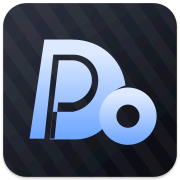
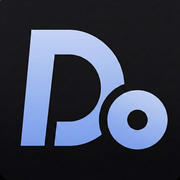
chore(website): unify branding with provided DoWhiz.jpeg

diff --git a/website/src/App.jsx b/website/src/App.jsx
@@ -17,7 +17,7 @@ import plushAxolotlImg from './assets/Plush-Axolotl.jpg';
 
 const WAITLIST_FORM_URL = 'https://docs.google.com/forms/d/1UgZpFgYxq0uSjmVdai1mpjbfj2GxcWakFt3YKL8by34/viewform';
 const SITE_URL = 'https://dowhiz.com';
-const LOGO_URL = `${SITE_URL}/do-whiz-mark.svg`;
+const LOGO_URL = `${SITE_URL}/DoWhiz.jpeg`;
 const SUPPORT_EMAIL = 'admin@dowhiz.com';
 const ORG_NAME = 'DoWhiz';
 const DAY_START_HOUR = 7;
@@ -967,7 +967,7 @@ function App() {
         <nav className="navbar">
           <div className="container nav-content">
             <a href="/" className="logo">
-              <img src="/do-whiz-mark.svg" alt="" className="brand-mark" aria-hidden="true" />
+              <img src="/DoWhiz.jpeg" alt="" className="brand-mark" aria-hidden="true" />
               <span>Do<span className="text-gradient">Whiz</span></span>
             </a>
             <div className="nav-links">
@@ -1421,7 +1421,7 @@ function App() {
           <div className="container footer-content">
             <div className="footer-brand">
               <a href="#" className="footer-logo">
-                <img src="/do-whiz-mark.svg" alt="" className="footer-brand-mark" aria-hidden="true" />
+                <img src="/DoWhiz.jpeg" alt="" className="footer-brand-mark" aria-hidden="true" />
                 <span>Do<span className="text-gradient">Whiz</span></span>
               </a>
               <p className="footer-tagline">

diff --git a/website/index.html b/website/index.html
@@ -2,7 +2,7 @@
 <html lang="en">
   <head>
     <meta charset="UTF-8" />
-    <link rel="icon" type="image/svg+xml" href="/do-whiz-mark.svg" />
+    <link rel="icon" type="image/jpeg" href="/DoWhiz.jpeg" />
     <link rel="apple-touch-icon" href="/apple-touch-icon.png" />
     <link rel="manifest" href="/site.webmanifest" />
     <meta
@@ -23,7 +23,7 @@
     <meta property="og:url" content="https://dowhiz.com/" />
     <meta property="og:site_name" content="DoWhiz" />
     <meta property="og:locale" content="en_US" />
-    <meta property="og:image" content="/do-whiz-og.svg" />
+    <meta property="og:image" content="/DoWhiz.jpeg" />
     <meta property="og:image:alt" content="DoWhiz digital employee team" />
     <meta name="twitter:card" content="summary_large_image" />
     <meta name="twitter:title" content="DoWhiz" />
@@ -31,7 +31,7 @@
       name="twitter:description"
       content="Multi-channel, tool-native digital employee team for daily operations. Trigger work from email, chat, GitHub, and shared docs with shared memory across platforms."
     />
-    <meta name="twitter:image" content="/do-whiz-og.svg" />
+    <meta name="twitter:image" content="/DoWhiz.jpeg" />
     <title>DoWhiz | Multi-Channel Tool-Native Digital Employees</title>
   </head>
   <body>

diff --git a/website/public/agent-market/index.html b/website/public/agent-market/index.html
@@ -7,7 +7,7 @@
       name="description"
       content="Request automated OpenClaw deployment on DoWhiz by uploading skills, env keys, and private data folders."
     />
-    <link rel="icon" type="image/svg+xml" href="/do-whiz-mark.svg" />
+    <link rel="icon" type="image/jpeg" href="/DoWhiz.jpeg" />
     <link rel="apple-touch-icon" href="/apple-touch-icon.png" />
     <link rel="manifest" href="/site.webmanifest" />
     <link rel="canonical" href="https://dowhiz.com/agent-market/" />
@@ -38,7 +38,7 @@
     <nav class="navbar">
       <div class="container nav-content">
         <a class="logo" href="/">
-          <img src="/do-whiz-mark.svg" alt="" class="brand-mark" aria-hidden="true" />
+          <img src="/DoWhiz.jpeg" alt="" class="brand-mark" aria-hidden="true" />
           <span>Do<span class="text-gradient">Whiz</span></span>
         </a>
         <div class="nav-links">

diff --git a/website/public/demo-videos/index.html b/website/public/demo-videos/index.html
@@ -7,7 +7,7 @@
       name="description"
       content="Watch DoWhiz demo videos: one full desktop walkthrough and three mobile Shorts."
     />
-    <link rel="icon" type="image/svg+xml" href="/do-whiz-mark.svg" />
+    <link rel="icon" type="image/jpeg" href="/DoWhiz.jpeg" />
     <link rel="apple-touch-icon" href="/apple-touch-icon.png" />
     <link rel="manifest" href="/site.webmanifest" />
     <link rel="stylesheet" href="/demo-videos.css" />
@@ -19,7 +19,7 @@
     <nav class="navbar">
       <div class="container nav-content">
         <a class="logo" href="/" aria-label="Back to DoWhiz homepage">
-          <img src="/do-whiz-mark.svg" alt="" class="brand-mark" aria-hidden="true" />
+          <img src="/DoWhiz.jpeg" alt="" class="brand-mark" aria-hidden="true" />
           <span>Do<span class="text-gradient">Whiz</span></span>
         </a>
         <div class="nav-actions">

diff --git a/website/public/agents/rachel/index.html b/website/public/agents/rachel/index.html
@@ -4,7 +4,7 @@
     <meta charset="UTF-8" />
     <meta name="viewport" content="width=device-width, initial-scale=1.0" />
     <meta name="description" content="Meet Rachel, the DoWhiz GTM specialist digital employee for launch planning and per-channel content operations." />
-    <link rel="icon" type="image/svg+xml" href="/do-whiz-mark.svg" />
+    <link rel="icon" type="image/jpeg" href="/DoWhiz.jpeg" />
     <link rel="apple-touch-icon" href="/apple-touch-icon.png" />
     <link rel="manifest" href="/site.webmanifest" />
     <link rel="stylesheet" href="/agent.css" />

diff --git a/website/public/agents/claw/index.html b/website/public/agents/claw/index.html
@@ -4,7 +4,7 @@
     <meta charset="UTF-8" />
     <meta name="viewport" content="width=device-width, initial-scale=1.0" />
     <meta name="description" content="Meet Claw, the DoWhiz workflow specialist focused on safe, accessible, tool-native automation across channels." />
-    <link rel="icon" type="image/svg+xml" href="/do-whiz-mark.svg" />
+    <link rel="icon" type="image/jpeg" href="/DoWhiz.jpeg" />
     <link rel="apple-touch-icon" href="/apple-touch-icon.png" />
     <link rel="manifest" href="/site.webmanifest" />
     <link rel="stylesheet" href="/agent.css" />

diff --git a/website/public/agents/jeffery/index.html b/website/public/agents/jeffery/index.html
@@ -4,7 +4,7 @@
     <meta charset="UTF-8" />
     <meta name="viewport" content="width=device-width, initial-scale=1.0" />
     <meta name="description" content="Meet Jeffery, the DoWhiz DeepTutor digital employee for document comprehension and structured takeaways." />
-    <link rel="icon" type="image/svg+xml" href="/do-whiz-mark.svg" />
+    <link rel="icon" type="image/jpeg" href="/DoWhiz.jpeg" />
     <link rel="apple-touch-icon" href="/apple-touch-icon.png" />
     <link rel="manifest" href="/site.webmanifest" />
     <link rel="stylesheet" href="/agent.css" />

diff --git a/website/public/agents/oliver/index.html b/website/public/agents/oliver/index.html
@@ -4,7 +4,7 @@
     <meta charset="UTF-8" />
     <meta name="viewport" content="width=device-width, initial-scale=1.0" />
     <meta name="description" content="Meet Oliver, the DoWhiz Generalist digital employee for multi-channel requests and tool-native delivery." />
-    <link rel="icon" type="image/svg+xml" href="/do-whiz-mark.svg" />
+    <link rel="icon" type="image/jpeg" href="/DoWhiz.jpeg" />
     <link rel="apple-touch-icon" href="/apple-touch-icon.png" />
     <link rel="manifest" href="/site.webmanifest" />
     <link rel="stylesheet" href="/agent.css" />

diff --git a/website/public/agents/anna/index.html b/website/public/agents/anna/index.html
@@ -4,7 +4,7 @@
     <meta charset="UTF-8" />
     <meta name="viewport" content="width=device-width, initial-scale=1.0" />
     <meta name="description" content="Meet Anna, the DoWhiz role-design digital employee for defining new specialist scopes and pilot plans." />
-    <link rel="icon" type="image/svg+xml" href="/do-whiz-mark.svg" />
+    <link rel="icon" type="image/jpeg" href="/DoWhiz.jpeg" />
     <link rel="apple-touch-icon" href="/apple-touch-icon.png" />
     <link rel="manifest" href="/site.webmanifest" />
     <link rel="stylesheet" href="/agent.css" />

diff --git a/website/public/agents/maggie/index.html b/website/public/agents/maggie/index.html
@@ -4,7 +4,7 @@
     <meta charset="UTF-8" />
     <meta name="viewport" content="width=device-width, initial-scale=1.0" />
     <meta name="description" content="Meet Maggie, the DoWhiz TPM digital employee for planning, status, and cross-team follow-up workflows." />
-    <link rel="icon" type="image/svg+xml" href="/do-whiz-mark.svg" />
+    <link rel="icon" type="image/jpeg" href="/DoWhiz.jpeg" />
     <link rel="apple-touch-icon" href="/apple-touch-icon.png" />
     <link rel="manifest" href="/site.webmanifest" />
     <link rel="stylesheet" href="/agent.css" />

diff --git a/website/public/auth/index.html b/website/public/auth/index.html
@@ -5,7 +5,7 @@
     <meta name="viewport" content="width=device-width, initial-scale=1.0" />
     <meta name="description" content="Sign in to DoWhiz to manage your digital employee integrations." />
     <meta name="robots" content="noindex, nofollow" />
-    <link rel="icon" type="image/svg+xml" href="/do-whiz-mark.svg" />
+    <link rel="icon" type="image/jpeg" href="/DoWhiz.jpeg" />
     <link rel="apple-touch-icon" href="/apple-touch-icon.png" />
     <link rel="manifest" href="/site.webmanifest" />
     <link rel="canonical" href="https://dowhiz.com/auth/" />

diff --git a/website/public/agents/lumio/index.html b/website/public/agents/lumio/index.html
@@ -4,7 +4,7 @@
     <meta charset="UTF-8" />
     <meta name="viewport" content="width=device-width, initial-scale=1.0" />
     <meta name="description" content="Meet Lumio, the DoWhiz CEO digital employee for strategic planning and executive decision support." />
-    <link rel="icon" type="image/svg+xml" href="/do-whiz-mark.svg" />
+    <link rel="icon" type="image/jpeg" href="/DoWhiz.jpeg" />
     <link rel="apple-touch-icon" href="/apple-touch-icon.png" />
     <link rel="manifest" href="/site.webmanifest" />
     <link rel="stylesheet" href="/agent.css" />
